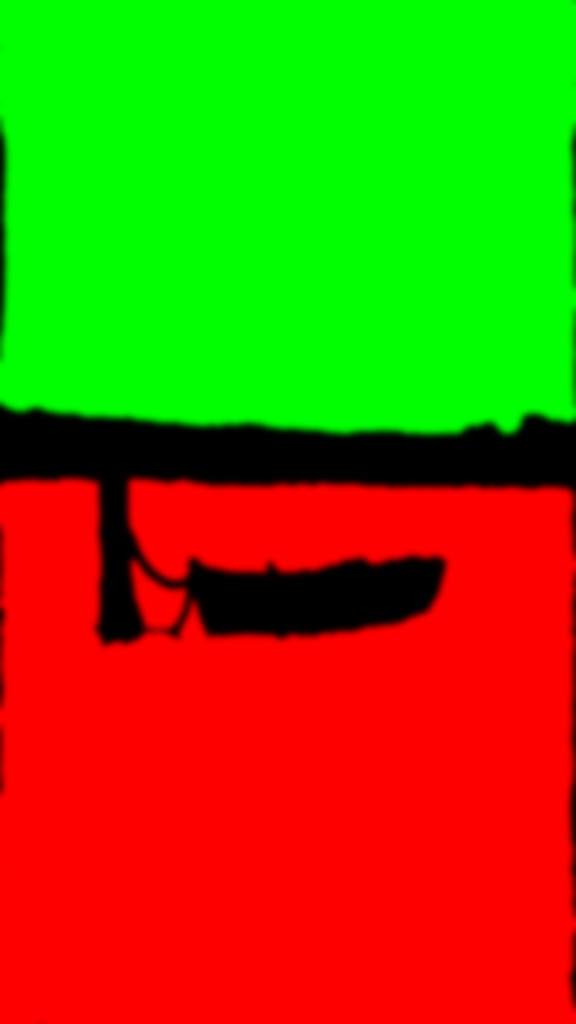
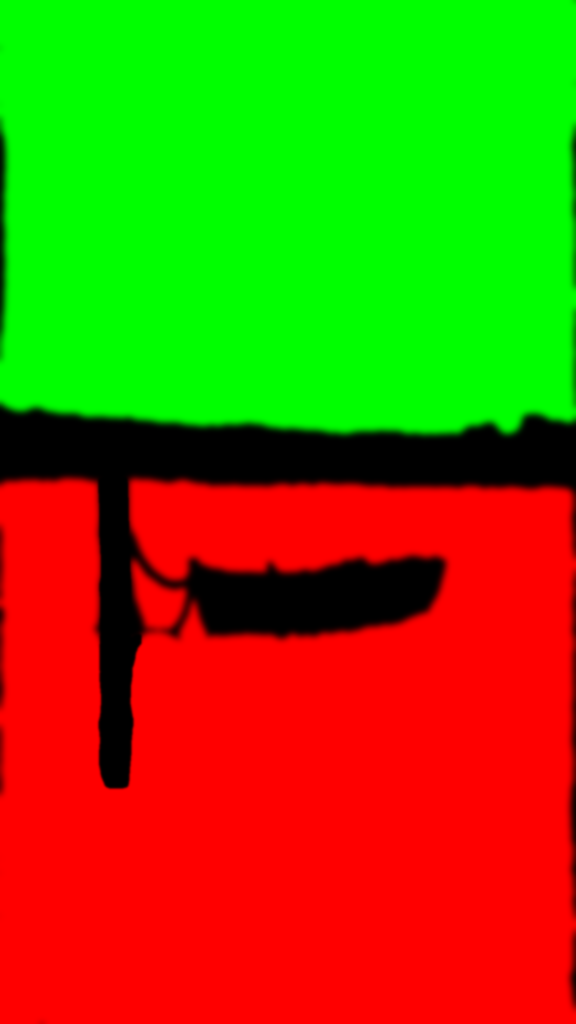
Web gallery: every card waits for the same shader start (a card could throw and freeze the whole page); four-hour clock wrap; the stream's per-place phase; worlds rebuilt with still subjects out of the region maps

Changed region(s): [[0.1562, 0.4688, 0.25, 0.7812]]

diff --git a/web/world.js b/web/world.js
@@ -236,7 +236,7 @@ function drawParticles(ctx, kind, clock, width, height) {
 // its anchor as Flutter's Transform moves it. One context draws every card;
 // each card copies the result onto its own canvas.
 const LivingGL = (() => {
-  let gl = null, canvas = null, failed = false, background = null, layer = null, empty = null;
+  let gl = null, canvas = null, background = null, layer = null, empty = null, starting = null;
   const textures = new WeakMap();
 
   const QUAD_VERTEX = `#version 300 es
@@ -310,9 +310,13 @@ void main() {
     return { p, at };
   }
 
-  /** Starts once: true when WebGL 2 and the shader are ready. */
-  async function start(shaderUrl) {
-    if (gl || failed) return !failed;
+  /** Starts once (every caller waits for the same start): true when WebGL 2 and the shader are ready. */
+  function start(shaderUrl) {
+    starting = starting || begin(shaderUrl);
+    return starting;
+  }
+
+  async function begin(shaderUrl) {
     try {
       canvas = document.createElement("canvas");
       gl = canvas.getContext("webgl2", { alpha: true, premultipliedAlpha: true, antialias: false });
@@ -330,8 +334,7 @@ void main() {
       return true;
     } catch (error) {
       console.warn("ELYND Worlds: the living painting needs WebGL 2; showing the still pictures", error);
-      failed = true;
-      gl = null;
+      gl = background = layer = null;
       return false;
     }
   }
@@ -373,7 +376,7 @@ void main() {
     gl.uniform1f(u.uCanvasH, height);
     gl.uniform2f(u.uSize, rect.width, rect.height);
     gl.uniform2f(u.uOrigin, rect.left, rect.top);
-    gl.uniform1f(u.uTime, still ? 0 : clock % 3600);
+    gl.uniform1f(u.uTime, still ? 0 : clock % (4 * 3600)); // as the phone: exact sines, a wrap never seen
     gl.uniform1f(u.uMotion, still ? 0 : wake);
     gl.uniform4f(u.uOn, on(living.water), on(living.sky), on(living.grass), on(living.stream));
     gl.uniform4f(u.uScene, living.trees ? 1 : 0, living.horizon ?? -1, 0, 0);
@@ -409,7 +412,8 @@ void main() {
     return canvas;
   }
 
-  return { start, draw, get ready() { return Boolean(gl); } };
+  // Ready only once both programs are built (a card can finish loading before the shader does).
+  return { start, draw, get ready() { return Boolean(gl && background && layer); } };
 })();
 
 /** One world drawn on one canvas. */
